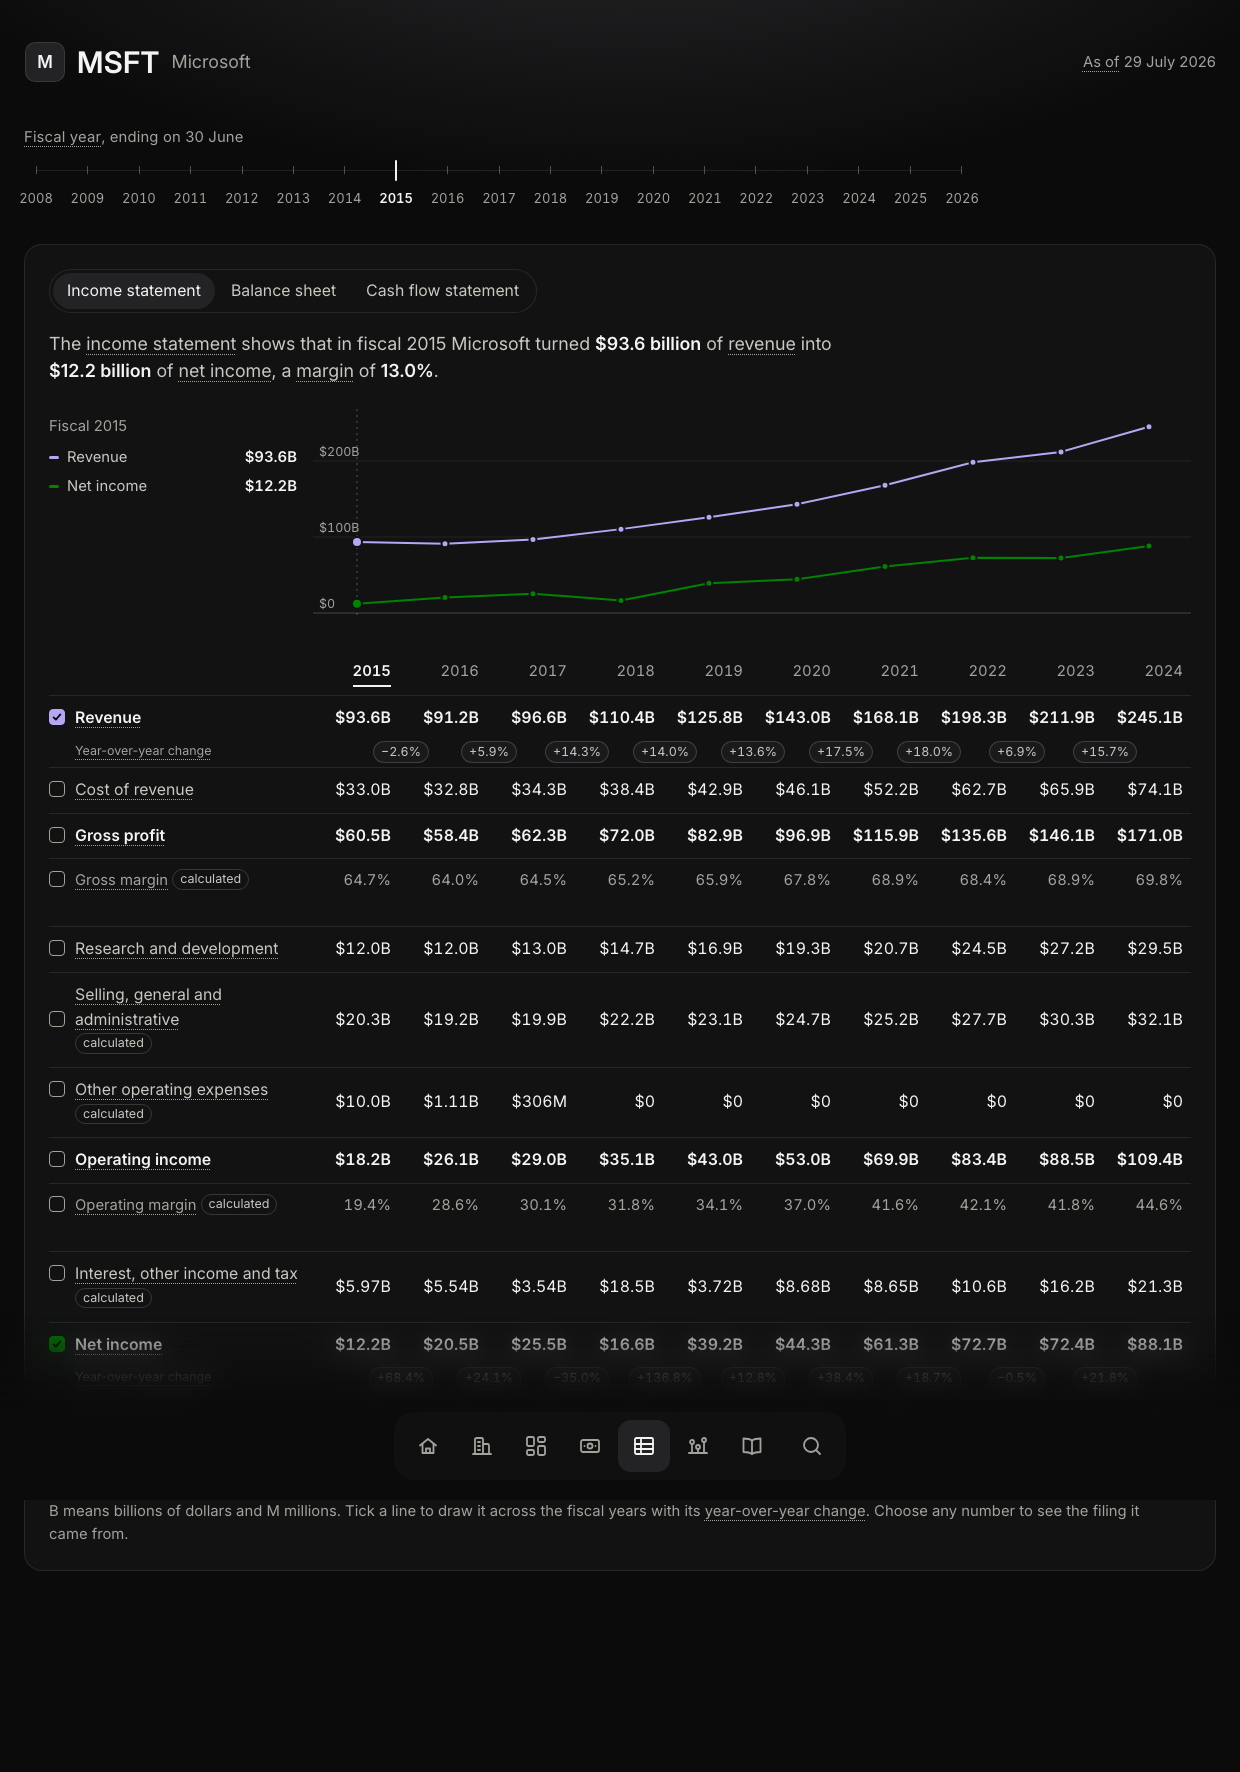
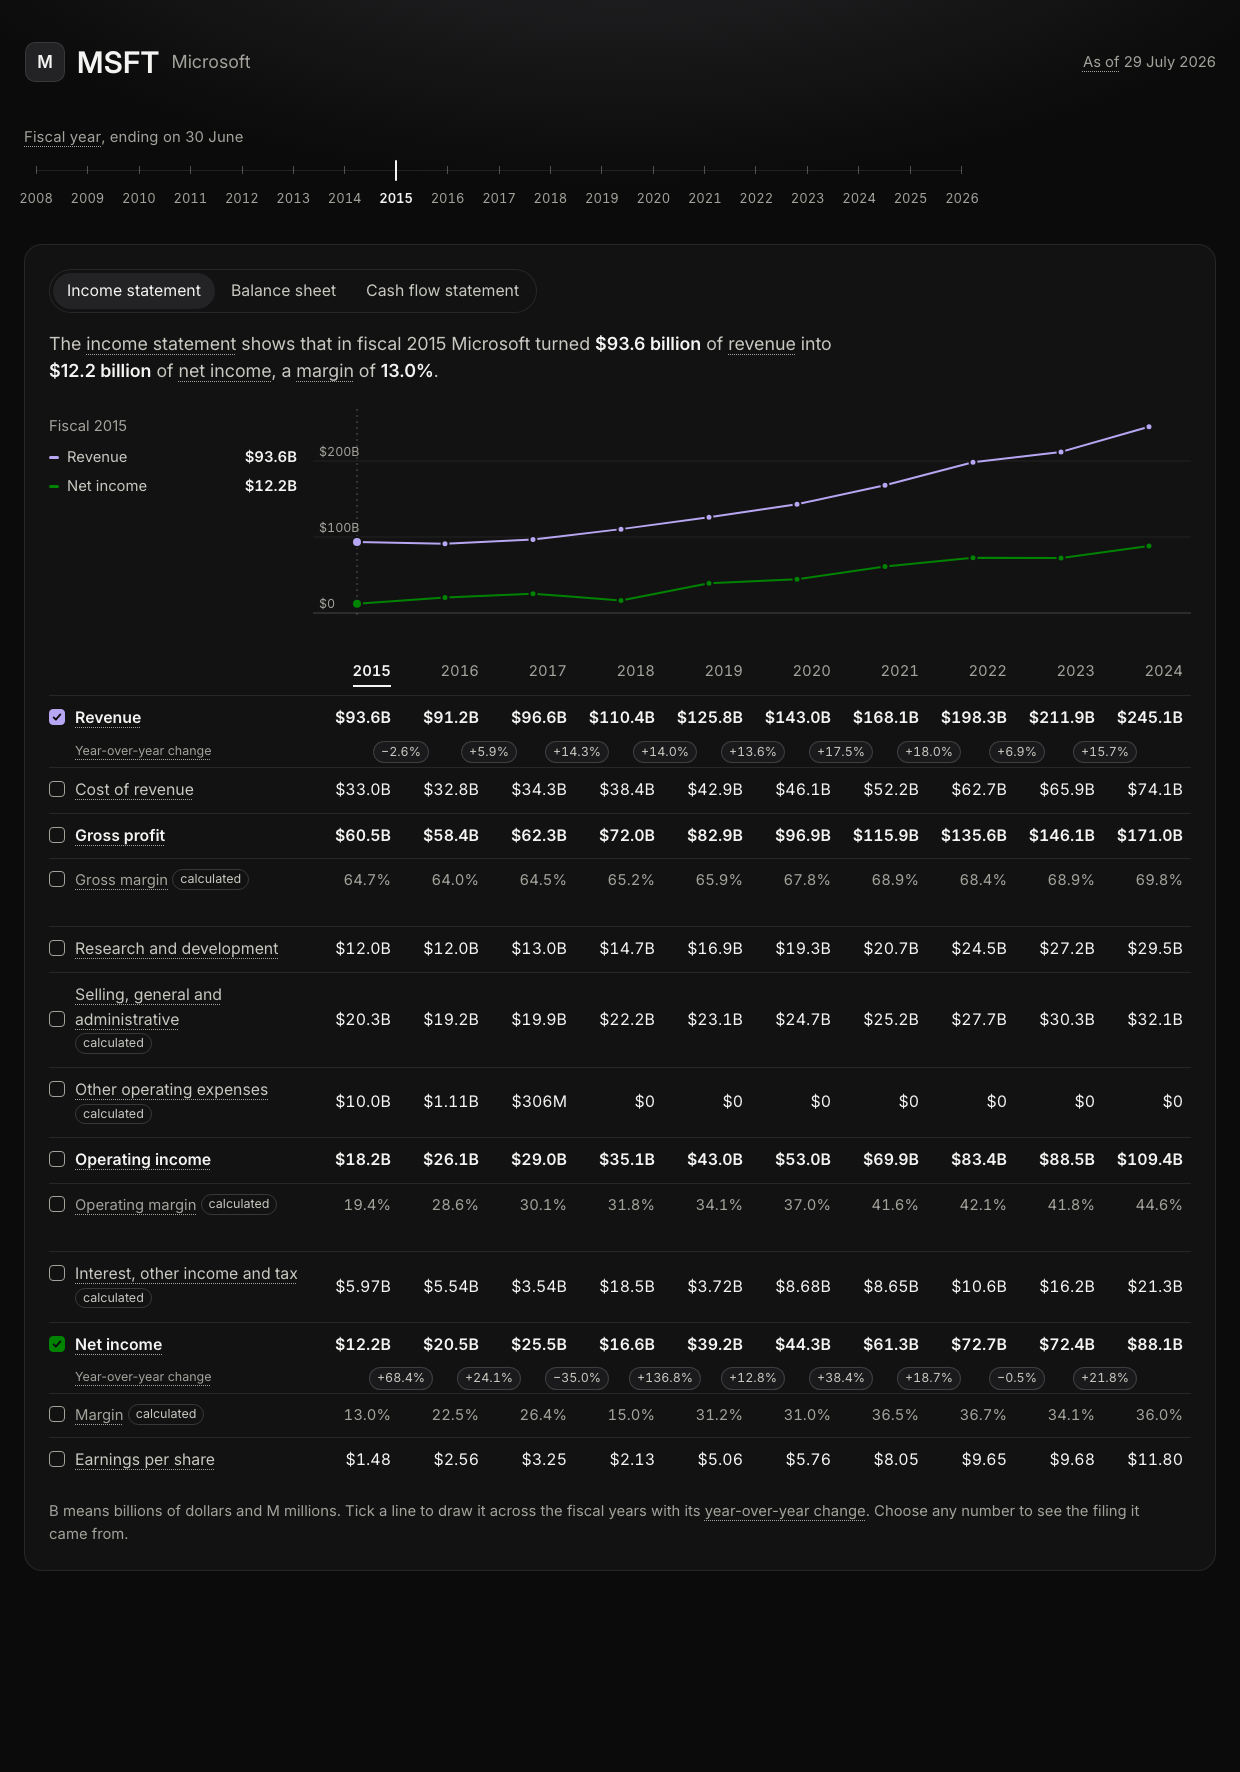
test: made-up current reports in the picture database, and pictures tall enough to clear the menu bar

diff --git a/scripts/screens-database.ts b/scripts/screens-database.ts
@@ -81,6 +81,77 @@ const program = Effect.gen(function* () {
     INSERT INTO setting (key, value)
     VALUES ('economy-fetched-on', ${new Date().toLocaleDateString("en-CA")})
   `;
+  // Made-up current reports, so the timeline shows single events, a fiscal
+  // year with several, an amendment, and a gap before Apple's are held.
+  yield* sql`UPDATE company SET filings_from = '2012-06-01' WHERE cik = 320193`;
+  const reports = [
+    {
+      cik: 320193,
+      form: "8-K",
+      filedOn: "2013-03-01",
+      reportDate: "2013-02-27",
+      items: "5.02",
+    },
+    {
+      cik: 320193,
+      form: "8-K",
+      filedOn: "2016-08-10",
+      reportDate: "2016-08-08",
+      items: "2.01",
+    },
+    {
+      cik: 320193,
+      form: "8-K",
+      filedOn: "2019-02-05",
+      reportDate: "2019-02-01",
+      items: "5.02",
+    },
+    {
+      cik: 320193,
+      form: "8-K",
+      filedOn: "2019-06-20",
+      reportDate: "2019-06-18",
+      items: "5.02,9.01",
+    },
+    {
+      cik: 320193,
+      form: "8-K",
+      filedOn: "2019-09-03",
+      reportDate: "2019-08-30",
+      items: "2.01",
+    },
+    {
+      cik: 320193,
+      form: "8-K",
+      filedOn: "2023-05-15",
+      reportDate: "2023-05-12",
+      items: "5.02",
+    },
+    {
+      cik: 320193,
+      form: "8-K/A",
+      filedOn: "2023-06-01",
+      reportDate: "2023-05-12",
+      items: "5.02",
+    },
+    {
+      cik: 909832,
+      form: "8-K",
+      filedOn: "2023-01-20",
+      reportDate: "2023-01-18",
+      items: "5.02",
+    },
+  ];
+  for (const [index, report] of reports.entries()) {
+    yield* sql`
+      INSERT INTO company_filing
+        (accession, cik, form, filed_on, report_date, items, primary_document)
+      VALUES (
+        ${`0000000000-00-${String(index).padStart(6, "0")}`}, ${report.cik}, ${report.form},
+        ${report.filedOn}, ${report.reportDate}, ${report.items}, 'report.htm'
+      )
+    `;
+  }
 });
 
 const sec = Layer.succeed(

diff --git a/screens/company-screens.spec.ts b/screens/company-screens.spec.ts
@@ -10,6 +10,10 @@ const pages = [
   { name: "microsoft-timeline", path: "/MSFT/timeline?year=2015" },
 ];
 
+// Tall enough that the menu bar, fixed to the bottom of the window, sits below
+// every screen instead of across it.
+test.use({ viewport: { width: 1440, height: 2600 } });
+
 for (const { name, path } of pages) {
   test(`company screen: ${name}`, async ({ page }) => {
     await page.goto(path, { waitUntil: "networkidle" });
